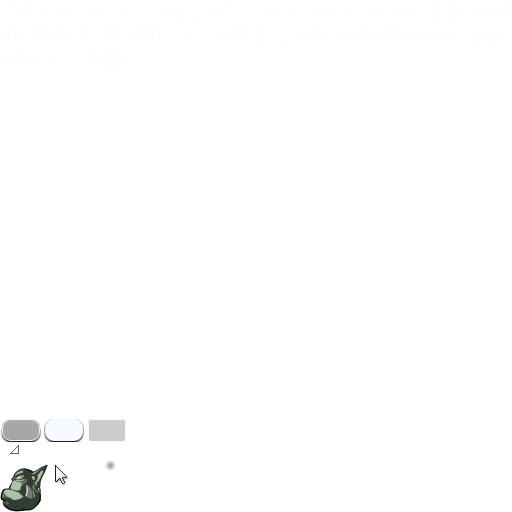
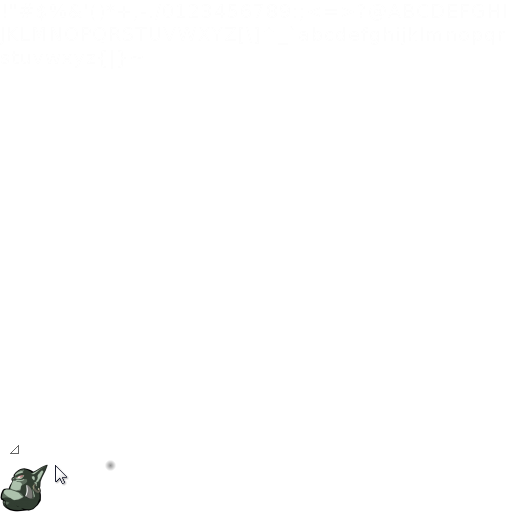
Changes
- Added licence file for dejavu glyphs
- Removed unneeded sprites from dejavu.png
- Added schema for Gorilla files

Changed region(s): [[0.1562, 0.8125, 0.25, 0.875], [0.0, 0.8125, 0.0938, 0.875]]

diff --git a/GORILLA_SCHEMA.md b/GORILLA_SCHEMA.md
@@ -1,0 +1,130 @@
+Gorilla Schema
+==============
+
+This a schema file for the Gorilla `.gorilla` file format.
+
+Layout
+------
+
+A Gorilla file is a simple text file, each element is organise into a key pair, seperated by a single space. Key/Pairs are organised into sections.
+
+    [SectionName]
+    key value1 value2 value3
+    key1 value1 value2
+
+Sections
+--------
+
+A Gorilla is organised into several sections:
+
+* Texture -- Referenced texture and canvas shape UV coords
+* Font -- Glyphs and Glyph information
+* FontKerning -- Font kerning
+* Sprite -- Sprite information
+
+Section: Texture
+----------------
+
+### file <texturename>  REQUIRED
+
+Image file to use.
+
+### rectangle <x> <y>   REQUIRED
+
+Where a white (RGB 255 255 255) pixel is in the image, for best results the surrounding pixels should be white too.
+
+Section: Font
+-------------
+
+### lineheight <h>      REQUIRED
+`lineheight 22`
+
+Amount of vertical position to move downwards on a new line.
+
+    <h>     Height in pixels
+
+### spacelength <w>     REQUIRED
+`spacelength 5`
+
+Amount of space to move across when a space is needed.
+
+    <w>     Width in pixels
+
+### baseline <h>        REQUIRED
+`baseline 18`
+Distance from the top where the character "sit's" upon. See http://en.wikipedia.org/wiki/Baseline_%28typography%29
+
+    <h>     Height in pixels
+
+### scale   <r>         REQUIRED
+`scale 0.999`
+
+Scale the glyphs by.
+    
+    <r>     Scale factor
+
+**NOTE: There is a current bug in Gorilla or Ogre, that makes the texture corrupted at 100%. For this reason, I recommend you put the scale at 0.999**
+
+### kerning <k>         REQUIRED
+`kerning -1`
+
+Amount of horizontal space to move forwards/backwards when a letter is drawn. 
+
+This value is used when no kerning information is found for a character
+
+    <r>     Kerning value (in pixels)
+
+### monowidth <w>       REQUIRED
+`monowidth 15`
+
+Amount of horiziontal space to move fowards when a letter is drawn in monospace mode.
+
+    <w>     Value (in pixels)
+
+### range <lower> <upper>
+`range 33 126`
+
+Available glyphs to use, lower is the ascii code for the lowest character available and upper is the highest character available. Typically for a English character set this would be 33 126
+
+    <lower>     Lowest character
+    <upper>     Highest character
+
+
+### glyph_<id> <x> <y> <w> <h> (advance)        REQUIRED (advance is optional)
+`glyph_65 388 0 14 23 13`
+
+Glyph image in the texture atlas. All glyph images need to have the same height, but width is variable.
+
+    <x>         Left position of where the glyph starts
+    <y>         Top position of where the glyph starts
+    <w>         Width of the glyph
+    <h>         Height of the glyph
+    (advance)   Move across this distance when draw (OPTIONAL)
+
+Section: FontKerning
+--------------------
+
+### glyph_<right_character> <left_character> <kerning>
+`glyph_74 45 1`
+
+Kerning value for when a right character is drawn after a left character.
+
+    <right_character>       ASCII code for the right character
+    <left_character>        ASCII code for the left character
+    <kerning>               Kerning value.
+
+Section: Sprite
+---------------
+
+### <name> <x> <y> <w> <h>
+`ogrehead 0 464 48 48`
+
+A single sprite.
+
+    <name>      Name of the sprite
+    <x>         Left of the top/left position of the sprite
+    <y>         Top of the top/left position of the sprite
+    <w>         Width of the sprite
+    <h>         height of the sprite
+
+
